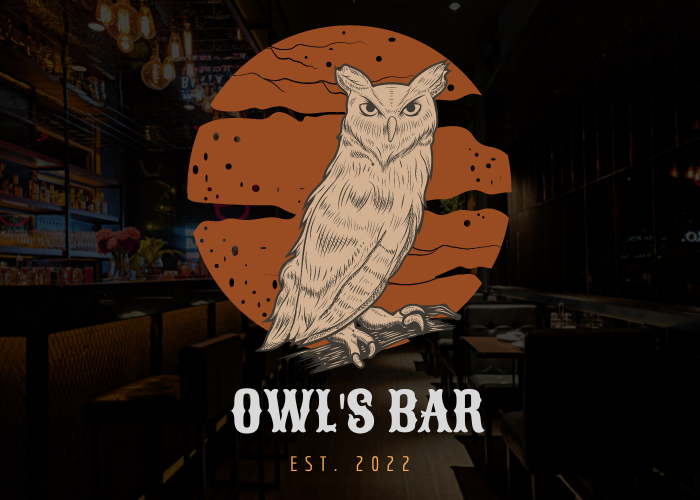
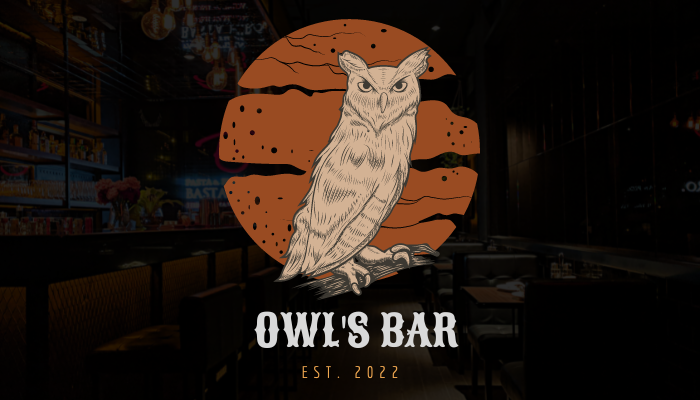
alterando img do readme

diff --git a/readme.md b/readme.md
@@ -1,6 +1,6 @@
 # 🦉 Owl's Bar 🦉
 
-<img src="./src/assets/imgReadme.png"/>
+<img align="center" src="./src/assets/imgReadme.png"/>
 
 <div align="center">
 
